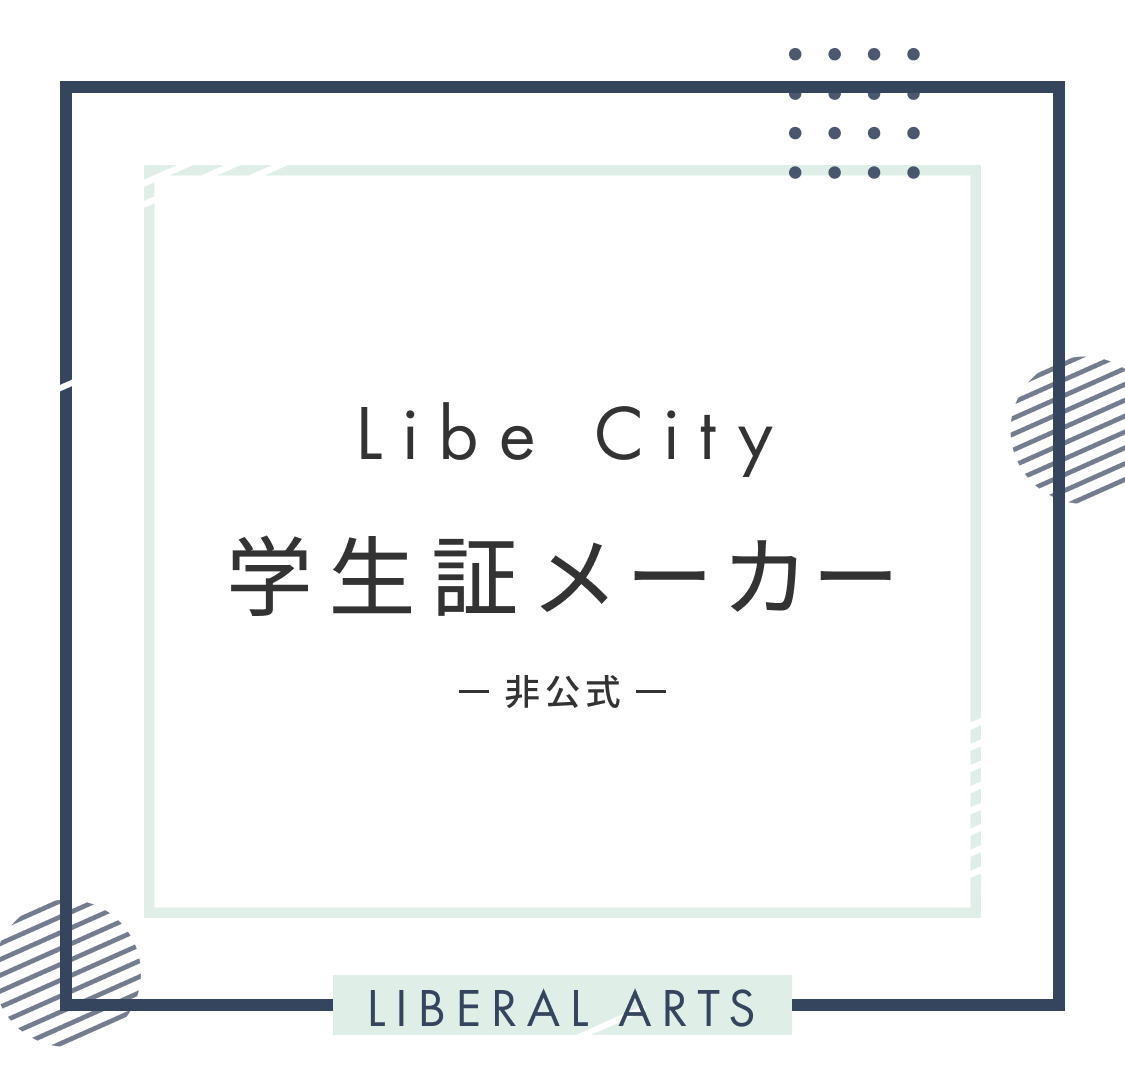
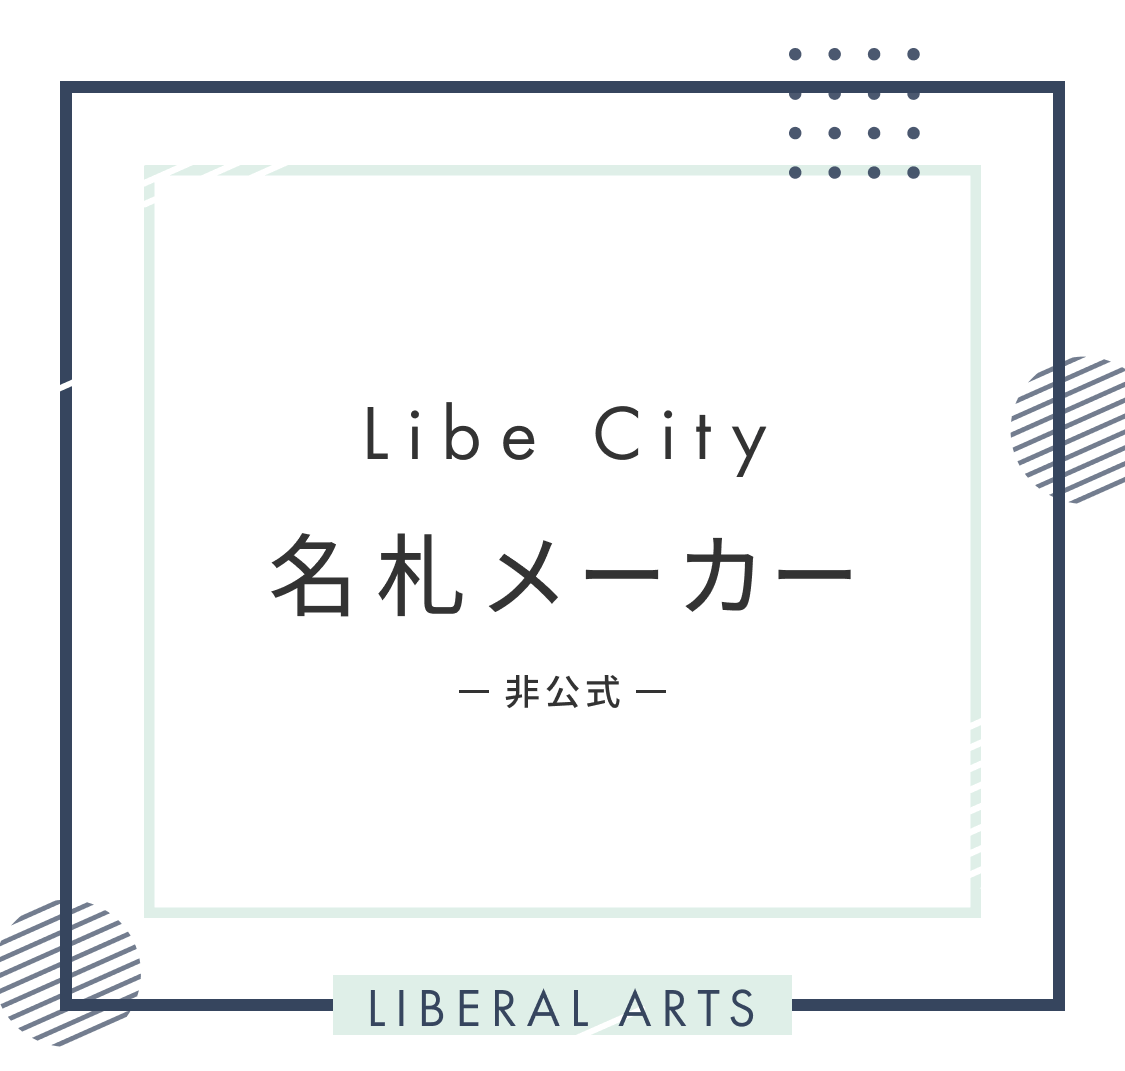
学生証→名札、画像変更および追加 (#3)
* 学生証→名札、画像変更および追加

* メイン画像を差し替え

diff --git a/src/App.vue b/src/App.vue
@@ -14,7 +14,7 @@ const state = reactive({
   profUrl: "",
   font: "M PLUS 1p",
   color: "#36455E",
-  baseImageType: "base_opposite1" as BaseImageType,
+  baseImageType: "base_opposite_jump" as BaseImageType,
   canvasWidth: 0,
 });
 
@@ -60,7 +60,7 @@ const readImage = async () => {
     <h1 class="main-visual">
       <img
         src="./assets/main-visual.png"
-        alt="【非公式】リベシティ 学生証メーカー"
+        alt="【非公式】リベシティ 名札メーカー"
       />
     </h1>
     <p class="main-heading">
@@ -77,33 +77,66 @@ const readImage = async () => {
         <div class="step__content">
           <div class="step-item__typeA">
             <input
-              id="base-image-opposite1-radio"
+              id="base-image-opposite-jump-radio"
               type="radio"
-              value="base_opposite1"
+              value="base_opposite_jump"
               v-model="state.baseImageType"
             /><label
-              for="base-image-opposite1-radio"
+              for="base-image-opposite-jump-radio"
               class="step-item__radio-label"
             >
               タイプ<span class="step-item__text--lg">A</span> :
               ハガキ･縦･ジャンプ学長</label
             >
-            <img src="./assets/base_opposite1.png" class="step__type-img" />
+            <img src="./assets/base_opposite_jump.png" class="step__type-img" />
           </div>
           <div class="step-item__typeB">
             <input
-              id="base-image-beside-radio"
+              id="base-image-opposite-finger-radio"
               type="radio"
-              value="base_beside"
+              value="base_opposite_finger"
               v-model="state.baseImageType"
             /><label
-              for="base-image-beside-radio"
+              for="base-image-opposite-finger-radio"
               class="step-item__radio-label"
             >
               タイプ<span class="step-item__text--lg">B</span> :
+              ハガキ･縦･指差し学長</label
+            >
+            <img
+              src="./assets/base_opposite_finger.png"
+              class="step__type-img"
+            />
+          </div>
+          <div class="step-item__typeC">
+            <input
+              id="base-image-beside-jump-radio"
+              type="radio"
+              value="base_beside_jump"
+              v-model="state.baseImageType"
+            /><label
+              for="base-image-beside-jump-radio"
+              class="step-item__radio-label"
+            >
+              タイプ<span class="step-item__text--lg">C</span> :
+              ハガキ･横･ジャンプ学長</label
+            >
+            <img src="./assets/base_beside_jump.png" class="step__type-img" />
+          </div>
+          <div class="step-item__typeD">
+            <input
+              id="base-image-beside-finger-radio"
+              type="radio"
+              value="base_beside_finger"
+              v-model="state.baseImageType"
+            /><label
+              for="base-image-beside-finger-radio"
+              class="step-item__radio-label"
+            >
+              タイプ<span class="step-item__text--lg">D</span> :
               ハガキ･横･指差し学長</label
             >
-            <img src="./assets/base_beside.png" class="step__type-img" />
+            <img src="./assets/base_beside_finger.png" class="step__type-img" />
           </div>
         </div>
       </li>

diff --git a/src/components/Canvas.vue b/src/components/Canvas.vue
@@ -4,7 +4,11 @@ import { logEvent } from "firebase/analytics";
 import { analytics } from "../plugins/firebase";
 import konva from "konva";
 import qrcode from "qrcode";
-import { BaseImage, BaseImageType } from "../config/baseImages";
+import {
+  BaseImage,
+  BaseImageType,
+  baseImageTypeValues,
+} from "../config/baseImages";
 
 const props = defineProps<{
   iconImage: HTMLImageElement | null;
@@ -21,20 +25,32 @@ const propRefs = toRefs(props);
 const state = reactive({
   isLoaded: false,
   qrcodeImage: new Image(),
-  baseBesideImage: new Image(),
-  baseOpposite1Image: new Image(),
+  baseImages: {
+    base_opposite_finger: new Image(),
+    base_opposite_jump: new Image(),
+    base_beside_finger: new Image(),
+    base_beside_jump: new Image(),
+  },
 });
 const stageRef = ref<InstanceType<typeof konva.Stage>>();
 
 watch(propRefs.canvasWidth, async (newValue) => {
-  const baseBeside = new BaseImage("base_beside", newValue);
-  await baseBeside.readImage();
-  state.baseBesideImage = baseBeside.image;
-  const baseOpposite1 = new BaseImage("base_opposite1", newValue);
-  await baseOpposite1.readImage();
-  state.baseOpposite1Image = baseOpposite1.image;
+  [
+    state.baseImages.base_opposite_finger,
+    state.baseImages.base_opposite_jump,
+    state.baseImages.base_beside_finger,
+    state.baseImages.base_beside_jump,
+  ] = await Promise.all(
+    baseImageTypeValues.map(async (baseImageType) => {
+      const baseImage = new BaseImage(baseImageType, newValue);
+      await baseImage.readImage();
+      return baseImage.image;
+    })
+  );
   state.isLoaded = true;
 });
+
+const baseImageTypes = computed(() => baseImageTypeValues);
 
 const konvaConfig = computed(() => {
   const baseImage = new BaseImage(
@@ -173,18 +189,12 @@ defineExpose({ exportImage });
 <template>
   <v-stage :config="konvaConfig" id="stage" ref="stageRef">
     <v-layer
+      v-for="baseImageType in baseImageTypes"
       :config="{
-        visible: state.isLoaded && props.baseImageType === 'base_beside',
+        visible: state.isLoaded && props.baseImageType === baseImageType,
       }"
     >
-      <v-image :config="{ image: state.baseBesideImage }" />
-    </v-layer>
-    <v-layer
-      :config="{
-        visible: state.isLoaded && props.baseImageType === 'base_opposite1',
-      }"
-    >
-      <v-image :config="{ image: state.baseOpposite1Image }" />
+      <v-image :config="{ image: state.baseImages[baseImageType] }" />
     </v-layer>
     <v-layer>
       <v-text :config="nameTextConfig"></v-text>

diff --git a/src/style.css b/src/style.css
@@ -20,22 +20,21 @@ body {
   min-width: 320px;
   min-height: 100vh;
   font-weight: 500 !important;
-  font-family: 'Noto Sans JP', sans-serif !important;
+  font-family: "Noto Sans JP", sans-serif !important;
   overflow-x: hidden;
-  background: -webkit-linear-gradient(145deg, #FFFFFF, #ECE9E6);
-  background: linear-gradient(-45deg, #FFFFFF, #ECE9E6);
+  background: -webkit-linear-gradient(145deg, #ffffff, #ece9e6);
+  background: linear-gradient(-45deg, #ffffff, #ece9e6);
 }
 
 .main-contents {
   margin: 0px auto;
   display: block;
   max-width: 580px !important;
-  background-color: #DFEFE8;
-  box-shadow: 0 0 20px rgba(0, 0, 0, .05) !important;
+  background-color: #dfefe8;
+  box-shadow: 0 0 20px rgba(0, 0, 0, 0.05) !important;
 }
 
 @media only screen and (min-width: 581px) {
-
   .main-contents {
     margin: 40px auto;
     max-height: 90vh;
@@ -90,7 +89,7 @@ body {
   letter-spacing: 0.07em;
   font-weight: bold;
   line-height: 1;
-  font-family: 'Lato', sans-serif;
+  font-family: "Lato", sans-serif;
 }
 
 .step-item__number--lg {
@@ -148,10 +147,16 @@ body {
 
 .step-item__typeA {
   padding-bottom: 30px;
-  border-bottom: 1px solid #DFEFE8;
+  border-bottom: 1px solid #dfefe8;
+}
+.step-item__typeB,
+.step-item__typeC {
+  padding-top: 20px;
+  padding-bottom: 30px;
+  border-bottom: 1px solid #dfefe8;
 }
 
-.step-item__typeB {
+.step-item__typeD {
   padding-top: 20px;
 }
 
@@ -184,13 +189,13 @@ body {
   padding: 11px 17px;
   border-radius: 3px;
   cursor: pointer;
-  background-color: #36455E;
+  background-color: #36455e;
 }
 
 .step__button.step__button--download:hover {
-  opacity: .9;
+  opacity: 0.9;
   color: #fff;
-  background-color: #36455E;
+  background-color: #36455e;
 }
 
 .step__button.step__button--download {
@@ -198,11 +203,11 @@ body {
   width: 100%;
   max-width: 220px;
   border-radius: 30px;
-  box-shadow: 0 0 12px rgba(0, 0, 0, .06);
+  box-shadow: 0 0 12px rgba(0, 0, 0, 0.06);
   margin: 0 auto;
   display: block;
   position: relative;
-  transition: opacity .2s ease;
+  transition: opacity 0.2s ease;
 }
 
 .step__button.step__button--download::after {
@@ -260,7 +265,6 @@ body {
   left: 0;
 }
 
-
 #app {
   max-width: 1280px;
   padding: 0;
@@ -271,7 +275,6 @@ h2 {
   text-align: justify;
   font-size: 1.3em !important;
 }
-
 
 img {
   width: 100%;

diff --git a/src/config/baseImages.ts b/src/config/baseImages.ts
@@ -1,10 +1,14 @@
-export type BaseImageType = "base_beside" | "base_opposite1";
-
-export const baseImageTypes: BaseImageType[] = [
-  "base_beside",
-  "base_opposite1",
+export type BaseImageType =
+  | "base_beside_jump"
+  | "base_beside_finger"
+  | "base_opposite_jump"
+  | "base_opposite_finger";
+export const baseImageTypeValues: BaseImageType[] = [
+  "base_opposite_finger",
+  "base_opposite_jump",
+  "base_beside_finger",
+  "base_beside_jump",
 ];
-
 export class BaseImage {
   type: BaseImageType;
   image: HTMLImageElement;
@@ -14,15 +18,26 @@ export class BaseImage {
     this.image = new Image();
     this.canvasWidth = canvasWidth;
   }
+  get name() {
+    return "ハガキ・" + this.type.includes("opposite")
+      ? "縦"
+      : "横" + "・" + this.type.includes("jump")
+      ? "ジャンプ"
+      : "指出し" + "学長";
+  }
   get fileName() {
     return this.type + ".png";
   }
   async getFilePath() {
     switch (this.type) {
-      case "base_beside":
-        return (await import("../assets/base_beside.png")).default;
-      case "base_opposite1":
-        return (await import("../assets/base_opposite1.png")).default;
+      case "base_beside_finger":
+        return (await import("../assets/base_beside_finger.png")).default;
+      case "base_beside_jump":
+        return (await import("../assets/base_beside_jump.png")).default;
+      case "base_opposite_finger":
+        return (await import("../assets/base_opposite_finger.png")).default;
+      case "base_opposite_jump":
+        return (await import("../assets/base_opposite_jump.png")).default;
     }
   }
 
@@ -43,7 +58,8 @@ export class BaseImage {
   }
   get sizes() {
     switch (this.type) {
-      case "base_beside":
+      case "base_beside_finger":
+      case "base_beside_jump":
         return {
           width: 2041,
           height: 1379,
@@ -77,7 +93,8 @@ export class BaseImage {
             y: 940,
           },
         };
-      case "base_opposite1":
+      case "base_opposite_finger":
+      case "base_opposite_jump":
         return {
           width: 1379,
           height: 2041,

diff --git a/index.html b/index.html
@@ -3,7 +3,7 @@
   <head>
     <meta charset="UTF-8" />
     <meta name="viewport" content="width=device-width, initial-scale=1.0" />
-    <title>リベシティ学生証メーカー</title>
+    <title>リベシティ名札メーカー</title>
     <link
       href="https://fonts.googleapis.com/css?family=M+PLUS+1p"
       rel="stylesheet"
